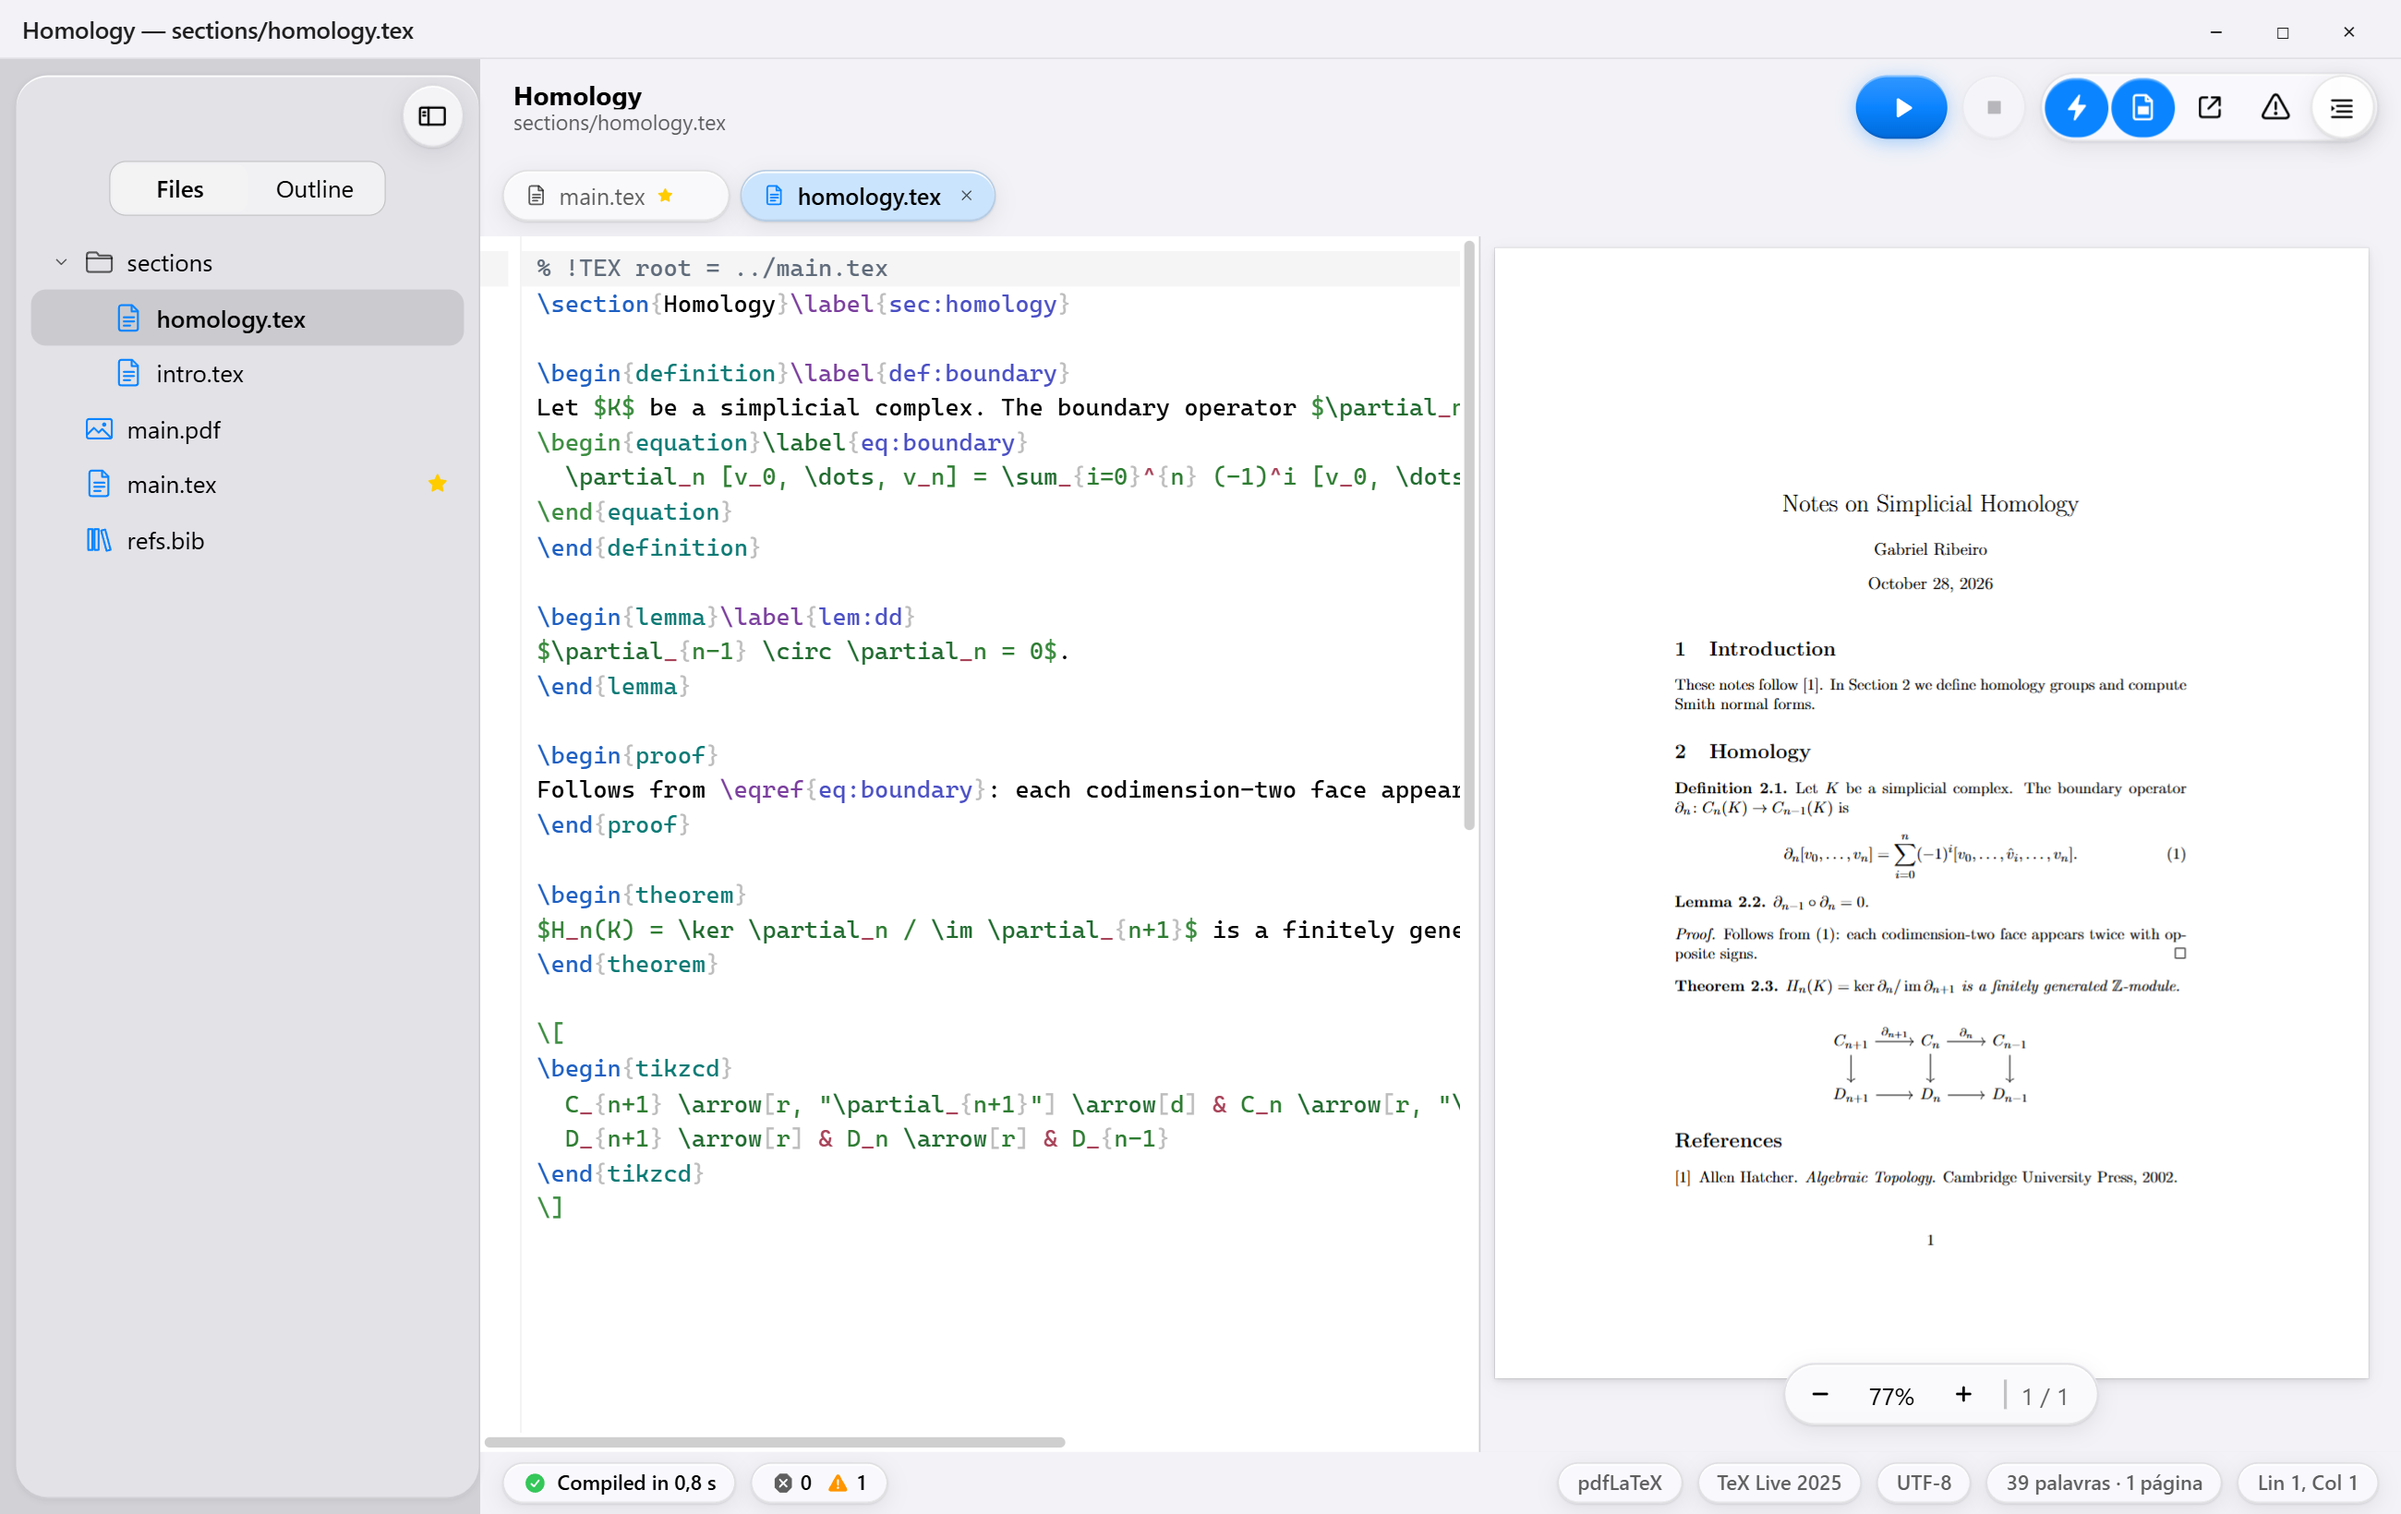
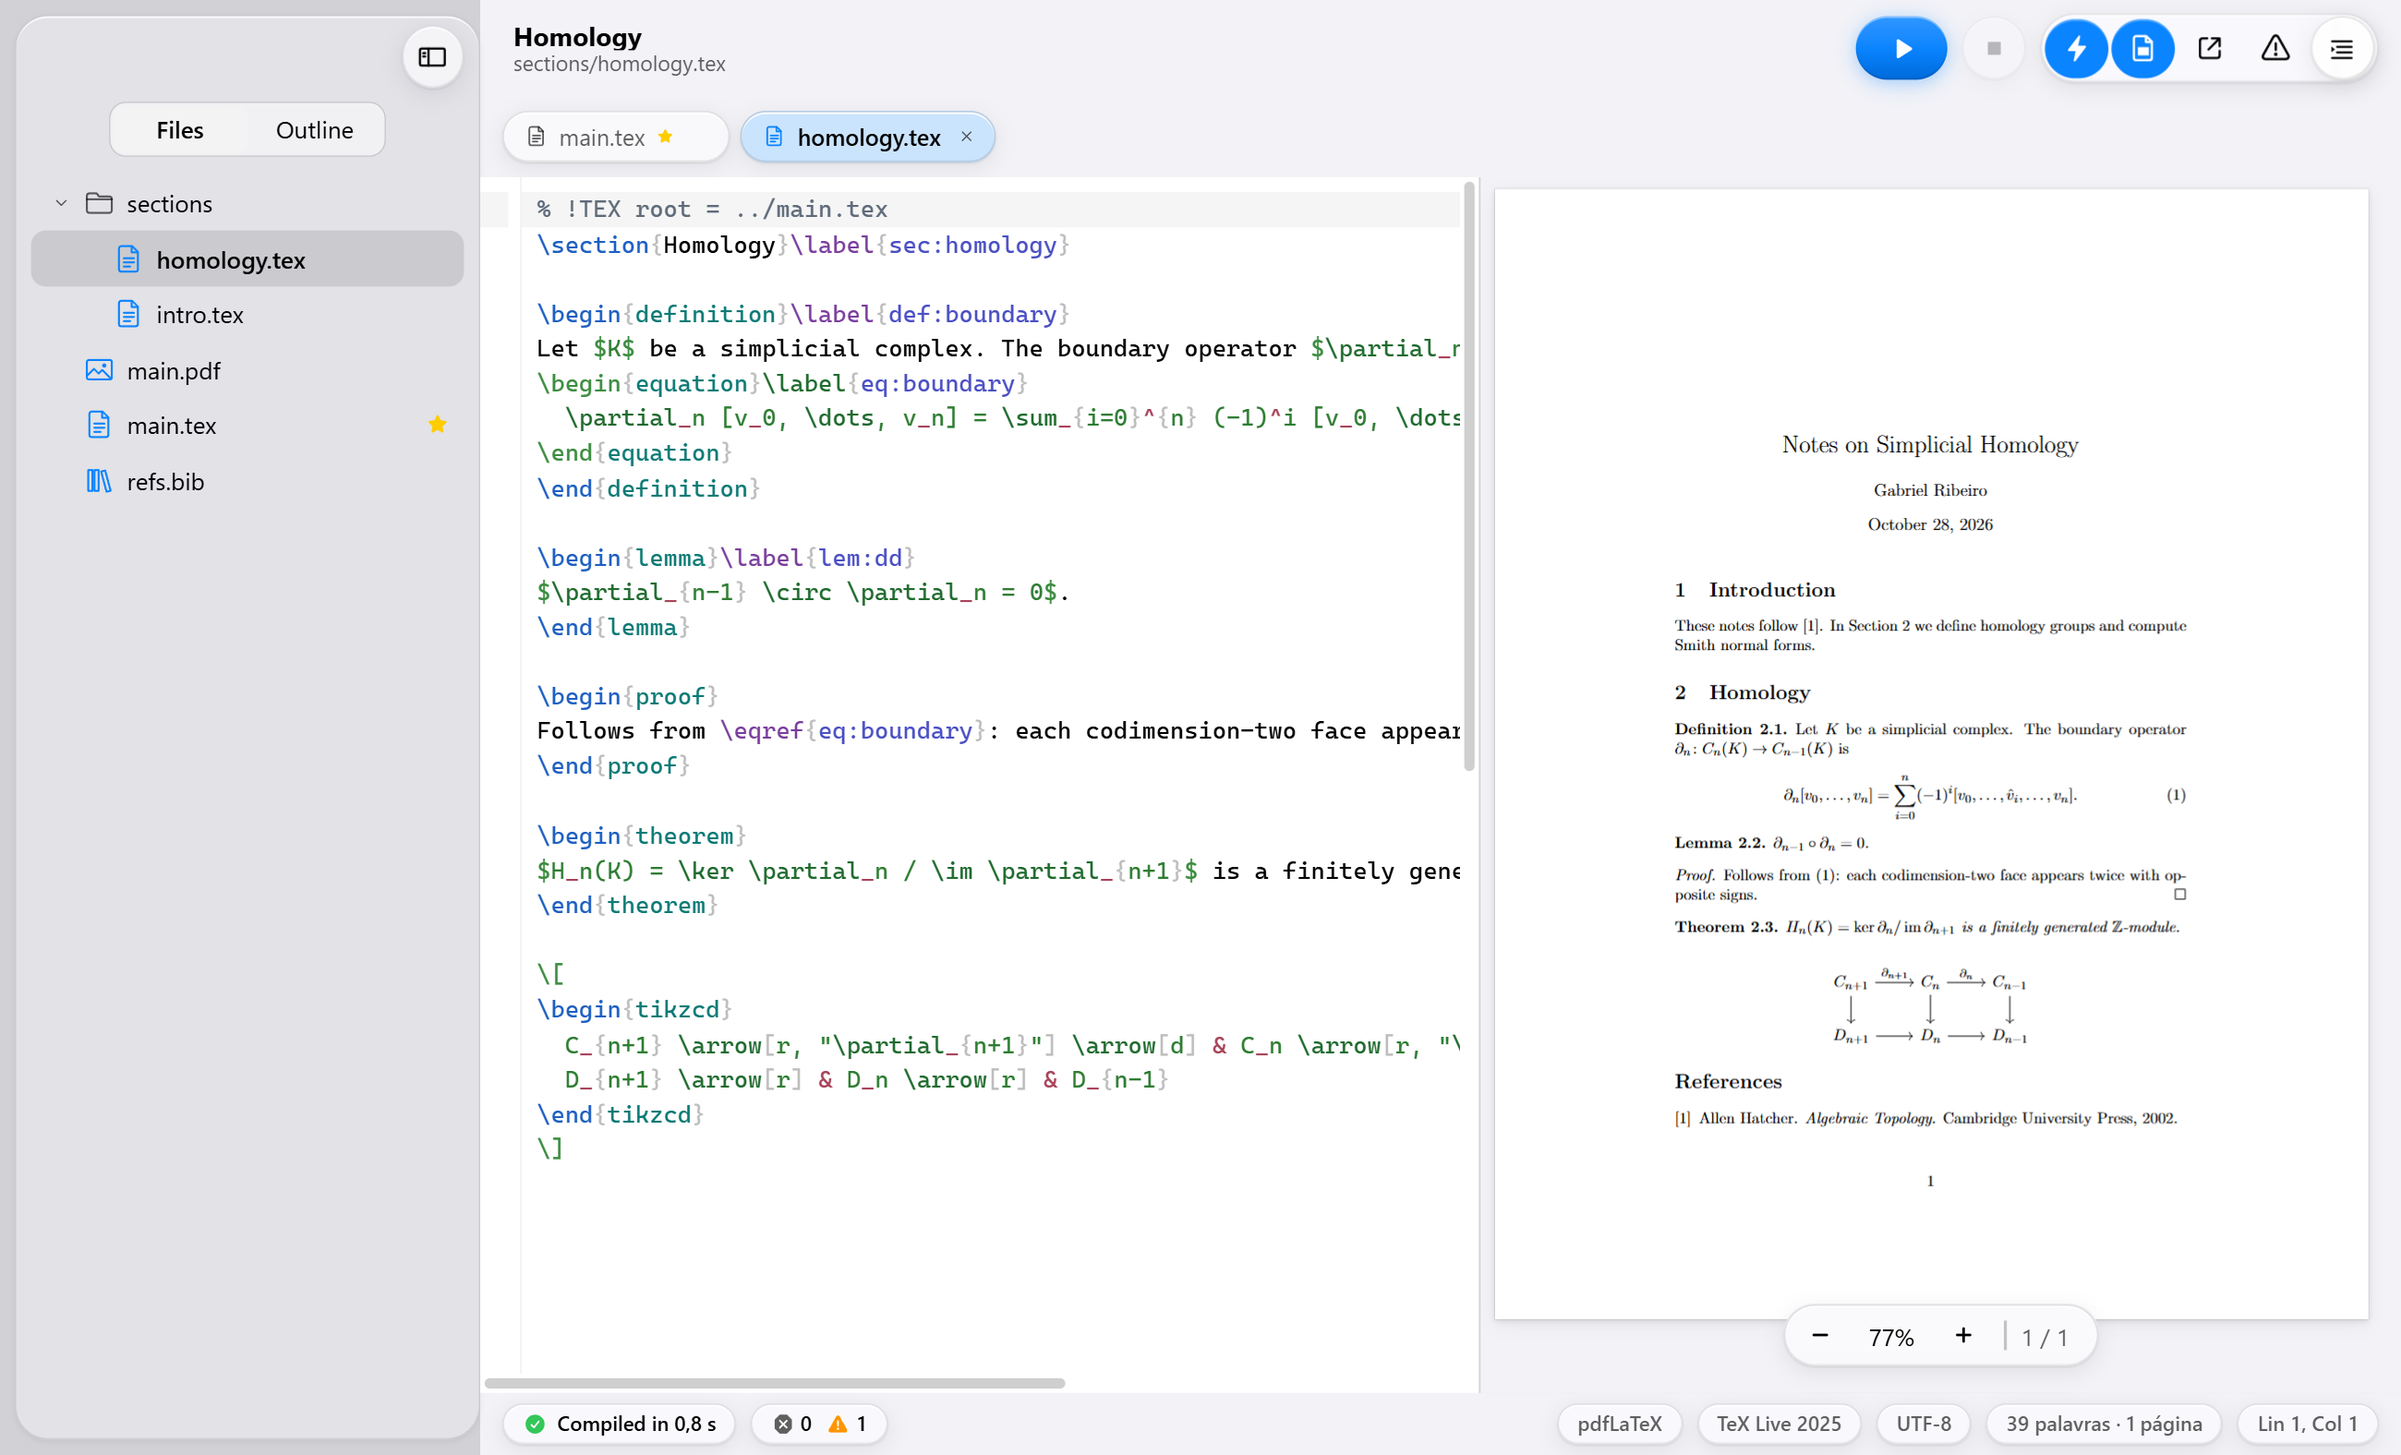
style(docs): crop top window bar and add rounded corners with elevation shadow to screenshots

diff --git a/docs/index.html b/docs/index.html
@@ -391,7 +391,11 @@ html[data-os="linux"] .also-linux { display: inline; }
 .meta span + span::before { content: "·"; margin: 0 .45em; }
 .hero-shot { position: relative; max-width: calc(var(--max-wide) + 2 * var(--gutter)); margin: clamp(36px, 5vw, 64px) auto 0; padding: 0 var(--gutter); }
 .hero-shot img { width: 100%; height: auto; }
-.themed-shot { display: none; width: 100%; height: auto; }
+.themed-shot {
+  display: none; width: 100%; height: auto;
+  border-radius: clamp(12px, 1.4vw, 18px);
+  box-shadow: 0 24px 60px -12px rgba(0, 0, 0, .45), 0 0 0 1px var(--hairline-strong);
+}
 html.dark[data-lang="pt"] .shot-dark-pt,
 html:not(.dark)[data-lang="pt"] .shot-light-pt,
 html.dark[data-lang="en"] .shot-dark-en,
@@ -849,16 +853,16 @@ figcaption { margin: 14px auto 0; max-width: var(--max-text); text-align: center
 
     </div>
     <figure class="hero-shot h-5" style="margin-bottom:0">
-      <img class="themed-shot shot-dark-pt" src="assets/screenshots/project-dark-pt.png" width="2600" height="1640" fetchpriority="high"
+      <img class="themed-shot shot-dark-pt" src="assets/screenshots/project-dark-pt.png" width="2600" height="1576" fetchpriority="high"
            alt="A janela de projeto do GabeTeX: a barra lateral de arquivos à esquerda, o editor LaTeX no meio e a pré-visualização do PDF ao vivo à direita."
            data-i18n-attr="alt:shots.projectAlt">
-      <img class="themed-shot shot-light-pt" src="assets/screenshots/project-light-pt.png" width="2600" height="1640" fetchpriority="high"
+      <img class="themed-shot shot-light-pt" src="assets/screenshots/project-light-pt.png" width="2600" height="1576" fetchpriority="high"
            alt="A janela de projeto do GabeTeX: a barra lateral de arquivos à esquerda, o editor LaTeX no meio e a pré-visualização do PDF ao vivo à direita."
            data-i18n-attr="alt:shots.projectAlt">
-      <img class="themed-shot shot-dark-en" src="assets/screenshots/project-dark-en.png" width="2600" height="1640" fetchpriority="high"
+      <img class="themed-shot shot-dark-en" src="assets/screenshots/project-dark-en.png" width="2600" height="1576" fetchpriority="high"
            alt="The GabeTeX project window: the file sidebar on the left, the LaTeX editor in the middle and the live PDF preview on the right."
            data-i18n-attr="alt:shots.projectAlt">
-      <img class="themed-shot shot-light-en" src="assets/screenshots/project-light-en.png" width="2600" height="1640" fetchpriority="high"
+      <img class="themed-shot shot-light-en" src="assets/screenshots/project-light-en.png" width="2600" height="1576" fetchpriority="high"
            alt="The GabeTeX project window: the file sidebar on the left, the LaTeX editor in the middle and the live PDF preview on the right."
            data-i18n-attr="alt:shots.projectAlt">
       <figcaption data-i18n="shots.project">Your whole project in one window: the files, the source, and the PDF compiling live beside it.</figcaption>
@@ -965,16 +969,16 @@ figcaption { margin: 14px auto 0; max-width: var(--max-text); text-align: center
       </div>
       <p class="try" aria-hidden="true"><span class="try-fine" data-i18n="sync.try">Try it: click a word on either side.</span><span class="try-coarse" data-i18n="sync.tryTouch">Try it: tap a word on either side.</span></p>
       <figure class="sync-shot reveal">
-        <img class="themed-shot shot-dark-pt" src="assets/screenshots/sync-dark-pt.png" width="2600" height="1640" loading="lazy" decoding="async"
+        <img class="themed-shot shot-dark-pt" src="assets/screenshots/sync-dark-pt.png" width="2600" height="1576" loading="lazy" decoding="async"
              alt="O GabeTeX indo de uma palavra no PDF para a mesma palavra no código LaTeX, que recebe um breve destaque."
              data-i18n-attr="alt:shots.syncAlt">
-        <img class="themed-shot shot-light-pt" src="assets/screenshots/sync-light-pt.png" width="2600" height="1640" loading="lazy" decoding="async"
+        <img class="themed-shot shot-light-pt" src="assets/screenshots/sync-light-pt.png" width="2600" height="1576" loading="lazy" decoding="async"
              alt="O GabeTeX indo de uma palavra no PDF para a mesma palavra no código LaTeX, que recebe um breve destaque."
              data-i18n-attr="alt:shots.syncAlt">
-        <img class="themed-shot shot-dark-en" src="assets/screenshots/sync-dark-en.png" width="2600" height="1640" loading="lazy" decoding="async"
+        <img class="themed-shot shot-dark-en" src="assets/screenshots/sync-dark-en.png" width="2600" height="1576" loading="lazy" decoding="async"
              alt="GabeTeX jumping from a word in the PDF to the same word in the LaTeX source, which is briefly highlighted."
              data-i18n-attr="alt:shots.syncAlt">
-        <img class="themed-shot shot-light-en" src="assets/screenshots/sync-light-en.png" width="2600" height="1640" loading="lazy" decoding="async"
+        <img class="themed-shot shot-light-en" src="assets/screenshots/sync-light-en.png" width="2600" height="1576" loading="lazy" decoding="async"
              alt="GabeTeX jumping from a word in the PDF to the same word in the LaTeX source, which is briefly highlighted."
              data-i18n-attr="alt:shots.syncAlt">
         <figcaption data-i18n="shots.sync">In GabeTeX: a double-click in the PDF opened the section file at that word. With Follow cursor in PDF, the preview also keeps up as you move.</figcaption>
@@ -1084,16 +1088,16 @@ figcaption { margin: 14px auto 0; max-width: var(--max-text); text-align: center
         </div>
       </div>
       <figure class="reveal" style="--stagger:1">
-        <img class="themed-shot shot-dark-pt" src="assets/screenshots/welcome-dark-pt.png" width="2000" height="1400" loading="lazy" decoding="async"
+        <img class="themed-shot shot-dark-pt" src="assets/screenshots/welcome-dark-pt.png" width="2000" height="1336" loading="lazy" decoding="async"
              alt="A janela de boas-vindas do GabeTeX com os projetos recentes, rótulos coloridos e filtros."
              data-i18n-attr="alt:shots.welcomeAlt">
-        <img class="themed-shot shot-light-pt" src="assets/screenshots/welcome-light-pt.png" width="2000" height="1400" loading="lazy" decoding="async"
+        <img class="themed-shot shot-light-pt" src="assets/screenshots/welcome-light-pt.png" width="2000" height="1336" loading="lazy" decoding="async"
              alt="A janela de boas-vindas do GabeTeX com os projetos recentes, rótulos coloridos e filtros."
              data-i18n-attr="alt:shots.welcomeAlt">
-        <img class="themed-shot shot-dark-en" src="assets/screenshots/welcome-dark-en.png" width="2000" height="1400" loading="lazy" decoding="async"
+        <img class="themed-shot shot-dark-en" src="assets/screenshots/welcome-dark-en.png" width="2000" height="1336" loading="lazy" decoding="async"
              alt="The GabeTeX Welcome window listing recent projects with color labels and filter chips."
              data-i18n-attr="alt:shots.welcomeAlt">
-        <img class="themed-shot shot-light-en" src="assets/screenshots/welcome-light-en.png" width="2000" height="1400" loading="lazy" decoding="async"
+        <img class="themed-shot shot-light-en" src="assets/screenshots/welcome-light-en.png" width="2000" height="1336" loading="lazy" decoding="async"
              alt="The GabeTeX Welcome window listing recent projects with color labels and filter chips."
              data-i18n-attr="alt:shots.welcomeAlt">
         <figcaption data-i18n="shots.welcome">The Welcome window, with color labels and filters.</figcaption>
